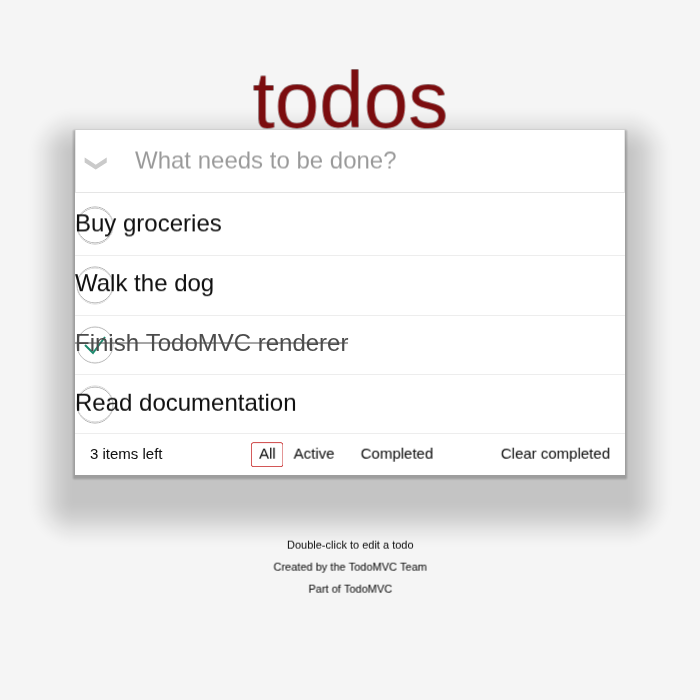
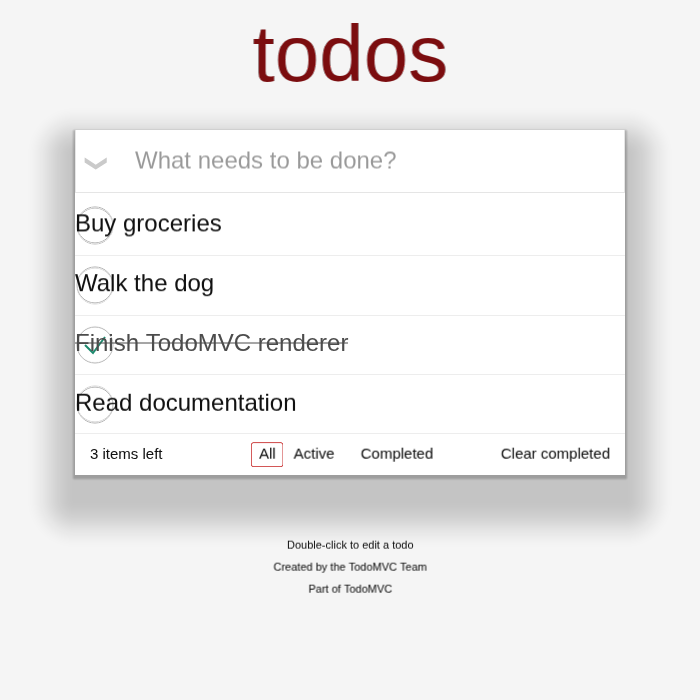
todomvc title position

Changed region(s): [[0.36, 0.03, 0.66, 0.21]]

diff --git a/renderer/src/lib.rs b/renderer/src/lib.rs
@@ -845,7 +845,11 @@ mod wasm_impl {
                     gpu.text_pipeline.bind_group_layout(),
                     &rendered_text,
                 );
-                let y_pos = base_y + (rendered_text.y - element.y) + (elem_y - element.y);
+                let y_pos = if element.tag == "h1" {
+                    -3.0
+                } else {
+                    base_y + (rendered_text.y - element.y) + (elem_y - element.y)
+                };
                 let tw = texture.width as f32;
                 let th = texture.height as f32;
                 text_instances.push(TexturedQuadInstance::new(
